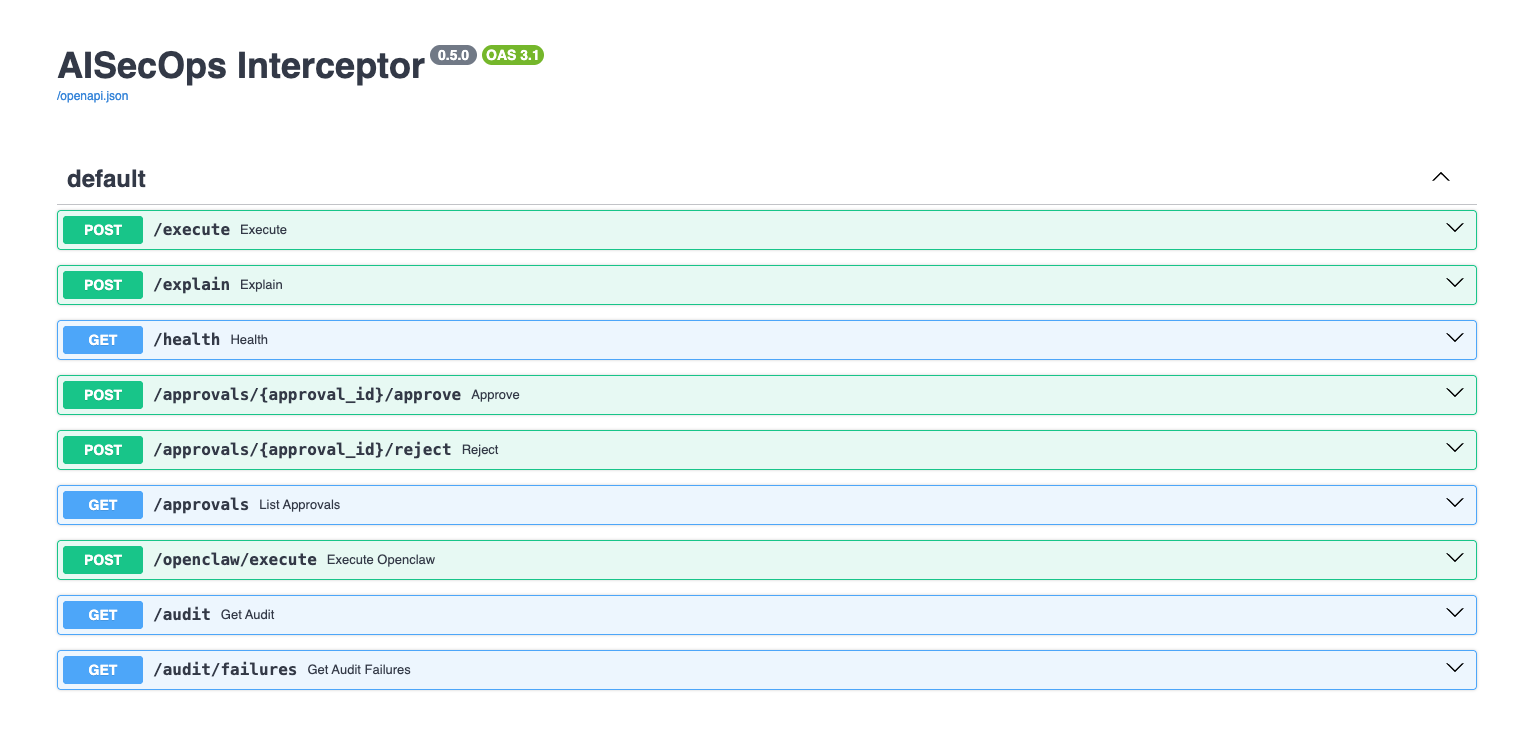
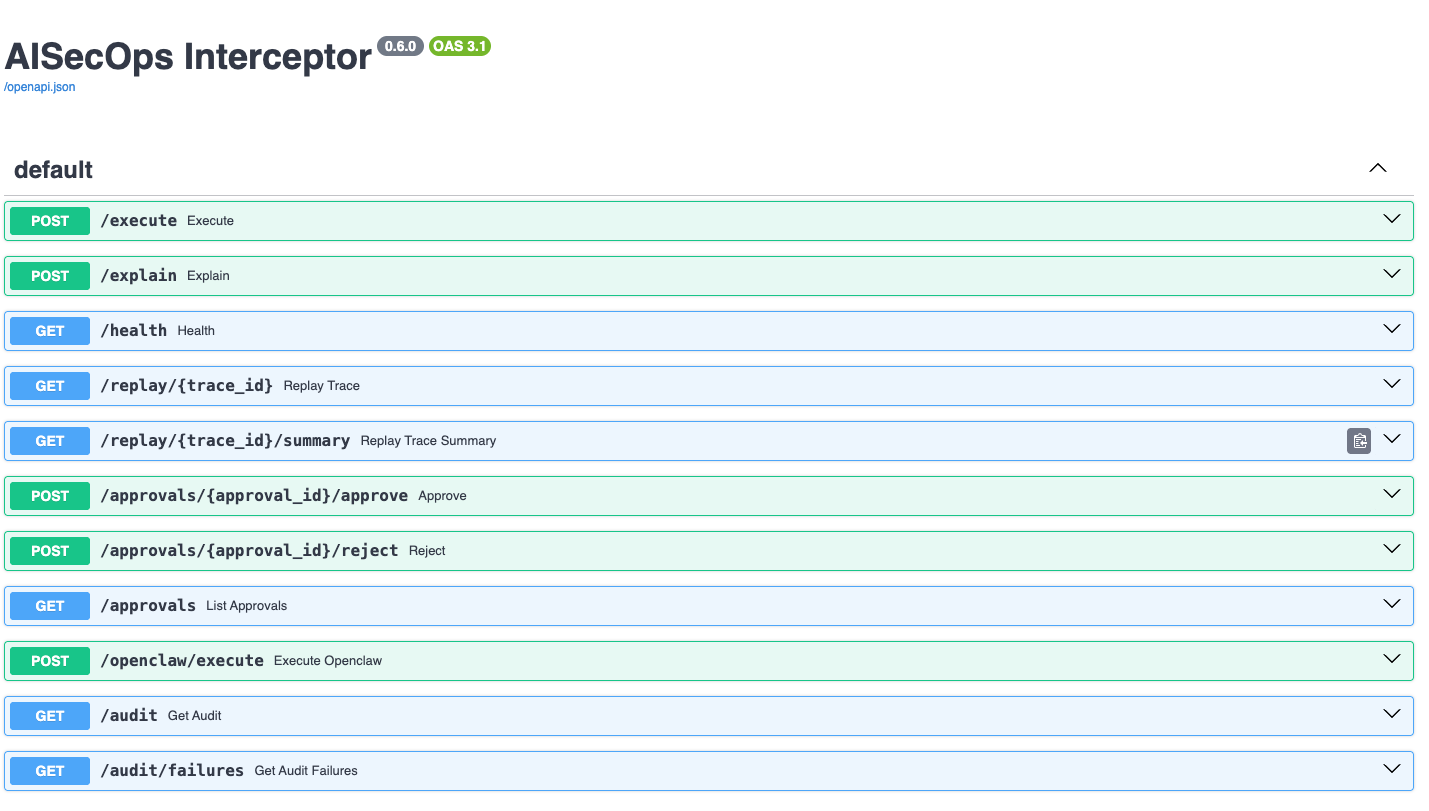
docs: add replay and Swagger screenshots

Changed region(s): [[0.0, 0.1811, 0.9853, 0.9959], [0.0, 0.0302, 0.3695, 0.1509]]

diff --git a/README.md b/README.md
@@ -23,6 +23,7 @@
 - [Full local quick start](#full-local-quick-start)
 - [API: Execute vs Explain](#api-execute-vs-explain)
 - [Interactive API docs](#interactive-api-docs)
+- [Replay screenshots](#replay-screenshots)
 - [Architecture direction](#architecture-direction)
 
 AISecOps Interceptor provides a framework-agnostic control plane to detect prompt injections, prevent secret leakage, and enforce human-in-the-loop approvals before your agents execute dangerous tools.
@@ -484,7 +485,33 @@ curl http://127.0.0.1:8000/replay/<trace_id>
 curl http://127.0.0.1:8000/replay/<trace_id>/summary
 ```
 
+
 The summary endpoint is useful for quick audit review, while the full replay endpoint returns the ordered timeline, execution plan grouping context, schema versions observed, and provenance summary.
+
+### Replay screenshots
+
+Replay views are intended to show how AISecOps reconstructs runtime decisions from structured JSONL audit events.
+
+Planned screenshots:
+
+#### Replay summary
+
+![AISecOps Replay Summary](docs/replay-summary.png)
+
+Shows the concise investigation view for a trace, including final decision, event count, tool name, reason, provenance trust summary, and schema versions observed.
+
+#### Replay timeline
+
+![AISecOps Replay Timeline](docs/replay-timeline.png)
+
+Shows the ordered runtime timeline for a trace, including prompt/input events, execution plan creation, capability checks, policy decisions, approval flow, execution outcomes, event IDs, schema versions, and provenance metadata.
+
+To add these screenshots later:
+
+```text
+docs/replay-summary.png
+docs/replay-timeline.png
+```
 
 The `/audit` endpoint supports optional query parameters: `event_type`, `stage`, `agent_name`, `tool_name`, `correlation_id`, and `limit`.
 `AuditLogger` can also emit the same `RuntimeEvent` records to multiple sinks, such as JSONL persistence and additional in-memory or external streaming adapters.
